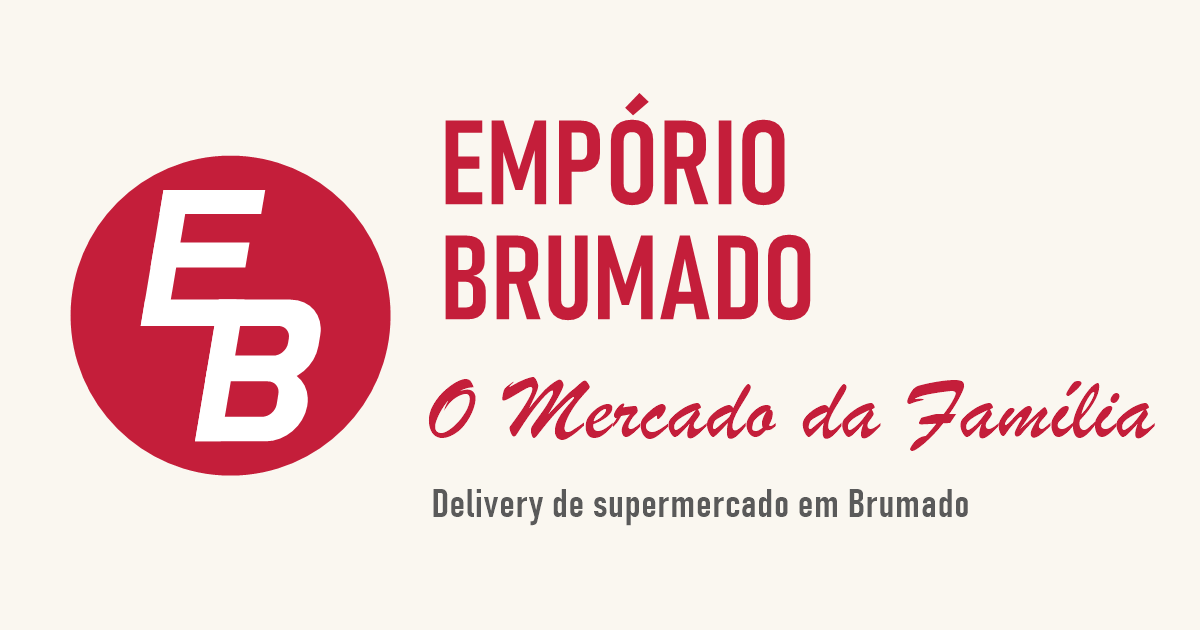
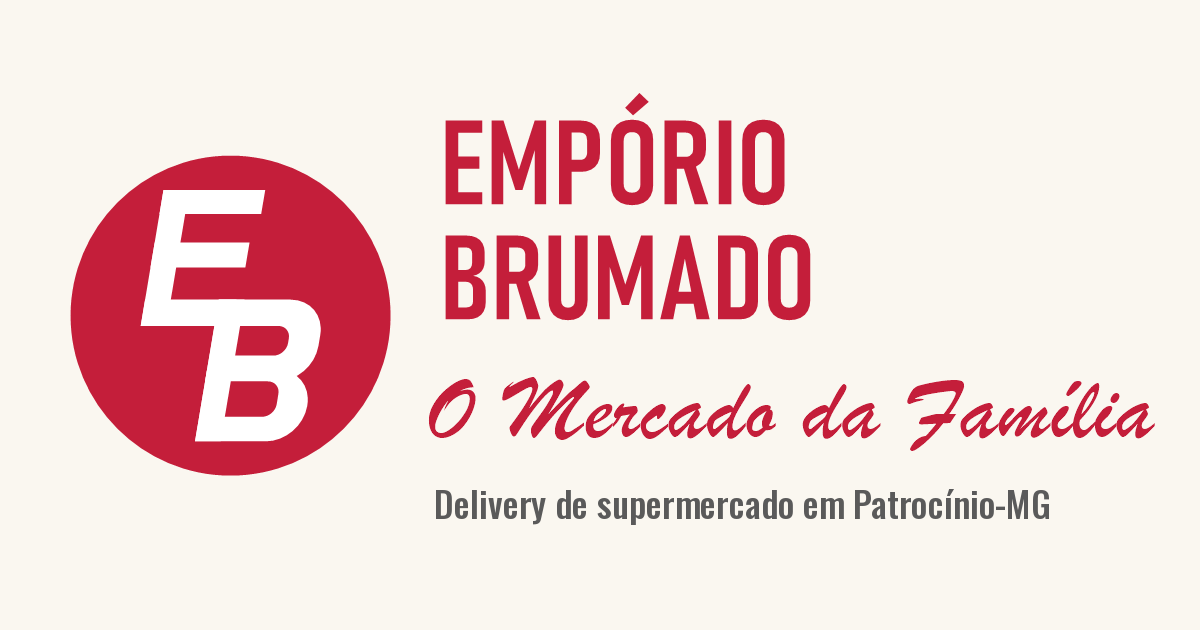
Corrige 'Todos saíram/entregues' e mudança de status; cidade Patrocínio-MG
- O status em produção é VARCHAR: comparar o mesmo parâmetro ($1) com texto
  dava 'inconsistent types deduced for parameter $1' e quebrava o lote, a troca
  de status do admin e o 'Saí/Entregue' do motoboy. Agora vai um booleano à parte.
- Site, app instalado e prévia do link: Patrocínio-MG no lugar de Brumado
- Código de barras: tira a medida americana do nome ('16 g - 0.56 oz' → '16 g')

Claude-Session: https://claude.ai/code/session_01Rb5arhrBbaQ428Bissiu2P

Changed region(s): [[0.3392, 0.754, 0.8942, 0.8444]]

diff --git a/backend/src/routes/orders.js b/backend/src/routes/orders.js
@@ -377,11 +377,11 @@ router.post('/bulk-status', verifyAdmin, async (req, res) => {
     const result = await pool.query(
       `UPDATE orders
        SET status = $1,
-           out_at = CASE WHEN $1 = 'Saído' AND out_at IS NULL THEN NOW() ELSE out_at END,
-           delivered_at = CASE WHEN $1 = 'Entregue' THEN NOW() ELSE delivered_at END
+           out_at = CASE WHEN $4 AND out_at IS NULL THEN NOW() ELSE out_at END,
+           delivered_at = CASE WHEN $5 THEN NOW() ELSE delivered_at END
        WHERE id = ANY($2::int[]) AND status = $3 AND problem IS NULL
        RETURNING id`,
-      [status, ids, fromOf[status]]
+      [status, ids, fromOf[status], status === 'Saído', status === 'Entregue']
     );
     res.json({ updated: result.rows.map(r => r.id) });
   } catch (err) {
@@ -522,12 +522,12 @@ router.put('/:id', verifyAdmin, async (req, res) => {
       `UPDATE orders
        SET status = $1,
            delivered_at = CASE WHEN $3 THEN NOW() ELSE delivered_at END,
-           out_at = CASE WHEN $1 = 'Saído' AND out_at IS NULL THEN NOW() ELSE out_at END,
+           out_at = CASE WHEN $5 AND out_at IS NULL THEN NOW() ELSE out_at END,
            motoboy_id = CASE WHEN $4 THEN NULL ELSE motoboy_id END,
            problem = NULL
        WHERE id = $2
        RETURNING *`,
-      [status, req.params.id, status === 'Entregue', status === 'Cancelado']
+      [status, req.params.id, status === 'Entregue', status === 'Cancelado', status === 'Saído']
     );
 
     await client.query('COMMIT');

diff --git a/frontend/public/index.html b/frontend/public/index.html
@@ -4,7 +4,7 @@
     <meta charset="UTF-8">
     <meta name="viewport" content="width=device-width, initial-scale=1.0">
     <title>EMPÓRIO BRUMADO - Delivery De Supermercado</title>
-    <meta name="description" content="Delivery de supermercado em Brumado: faça suas compras pelo celular e receba em casa.">
+    <meta name="description" content="Delivery de supermercado em Patrocínio-MG: faça suas compras pelo celular e receba em casa.">
     <meta name="theme-color" content="#C41E3A">
     <link rel="icon" type="image/png" href="/favicon.png">
     <link rel="manifest" href="/manifest.json">
@@ -19,7 +19,7 @@
     <meta property="og:type" content="website">
     <meta property="og:locale" content="pt_BR">
     <meta property="og:title" content="Empório Brumado - Delivery de Supermercado">
-    <meta property="og:description" content="Faça suas compras pelo celular e receba em casa, em Brumado.">
+    <meta property="og:description" content="Faça suas compras pelo celular e receba em casa, em Patrocínio-MG.">
     <meta property="og:url" content="https://emporiobrumado.com/">
     <meta property="og:image" content="https://emporiobrumado.com/og-image.png">
     <meta property="og:image:width" content="1200">

diff --git a/backend/src/routes/products.js b/backend/src/routes/products.js
@@ -141,7 +141,8 @@ router.get('/barcode/:code', verifyAdmin, async (req, res) => {
 
     const base = (info.product_name_pt || info.product_name || info.generic_name_pt || '').trim();
     const brand = (info.brands || '').split(',')[0].trim();
-    const qty = (info.quantity || '').trim();
+    // "16 g - 0.56 oz" → "16 g" (tira a medida americana)
+    const qty = (info.quantity || '').split(/\s*[-–(/]\s*/)[0].trim();
     const has = (txt) => base.toLowerCase().includes(txt.toLowerCase());
     const name = [base, brand && !has(brand) ? brand : '', qty && !has(qty) ? qty : ''].filter(Boolean).join(' ').replace(/\s+/g, ' ').slice(0, 120);
     res.json({

diff --git a/backend/src/routes/motoboys.js b/backend/src/routes/motoboys.js
@@ -162,10 +162,10 @@ me.put('/deliveries/:id/status', async (req, res) => {
       `UPDATE orders
        SET status = $1,
            delivered_at = CASE WHEN $4 THEN NOW() ELSE delivered_at END,
-           out_at = CASE WHEN $1 = 'Saído' THEN NOW() ELSE out_at END
+           out_at = CASE WHEN $6 THEN NOW() ELSE out_at END
        WHERE id = $2 AND motoboy_id = $3 AND status = $5
        RETURNING id, status`,
-      [status, req.params.id, req.user.id, status === 'Entregue', allowedFrom[status]]
+      [status, req.params.id, req.user.id, status === 'Entregue', allowedFrom[status], status === 'Saído']
     );
 
     if (result.rows.length === 0) {
